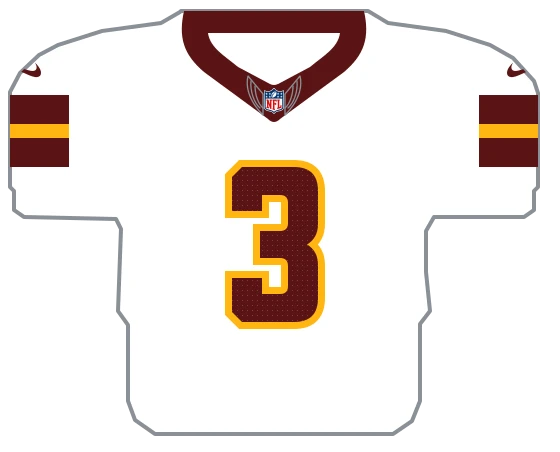
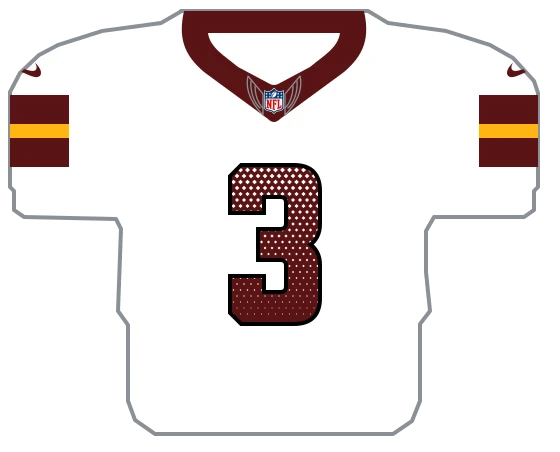
fix(uniforms): stipple the Commanders away numeral and outline it in black (DEP-710)

Changed region(s): [[0.3946, 0.3407, 0.6071, 0.7434]]

diff --git a/web/lib/uniforms/teams/commanders/marks/numbers.ts b/web/lib/uniforms/teams/commanders/marks/numbers.ts
@@ -1,3 +1,35 @@
+import type { PatternDef } from '../../core/types';
+
 // A narrow numeral with a flat left side and two rounded lobes on the right.
 export const COMMANDERS_NUMBER_THREE =
   'M262,539 L314,539 Q338,539 338,563 L338,596 Q338,610 327,616.5 Q338,623 338,637 L338,670 Q338,694 314,694 L262,694 L252,684 L252,650 L282,650 L282,666 L300,666 Q308,666 308,658 L308,638 Q308,630 300,630 L280,630 L280,603 L300,603 Q308,603 308,595 L308,575 Q308,567 300,567 L282,567 L282,583 L252,583 L252,549 Z';
+
+// White diamonds on a staggered grid across the chest numeral, largest at the top and shrinking to
+// nothing near the bottom.
+function stipple(): string {
+  const dots: string[] = [];
+  for (let row = 0; row * 6 <= 162; row++) {
+    const y = 536 + row * 6;
+    const r = 2.5 - (row * 6 * 2.1) / 162;
+    if (r < 0.5) break;
+    for (let x = 236 + (row % 2) * 3.5; x <= 352; x += 7) {
+      const f = (v: number) => v.toFixed(1);
+      dots.push(
+        `M${f(x)},${f(y - r)} L${f(x + r)},${f(y)} L${f(x)},${f(y + r)} L${f(x - r)},${f(y)} Z`
+      );
+    }
+  }
+  return dots.join(' ');
+}
+
+// The away numeral's fill: burgundy under the fading white stipple.
+export const COMMANDERS_NUMBER_PATTERNS: Record<string, PatternDef> = {
+  'commanders-number-stipple': {
+    width: 588,
+    height: 820,
+    shapes: [
+      { d: 'M0,0 H588 V820 H0 Z', fill: 'burgundy' },
+      { d: stipple(), fill: 'white' },
+    ],
+  },
+};

diff --git a/web/lib/uniforms/teams/commanders/jerseys/white.ts b/web/lib/uniforms/teams/commanders/jerseys/white.ts
@@ -2,7 +2,7 @@ import type { CompleteJerseySpec } from '../../core/complete';
 import { COMMANDERS_NUMBER_THREE } from '../marks/numbers';
 import { COMMANDERS_SLEEVE_BAND_BURGUNDY } from '../marks/construction';
 
-// White body, a burgundy band around a gold line on each sleeve, burgundy numerals keylined gold. A burgundy V collar band over a white neck.
+// White body, a burgundy band around a gold line on each sleeve, burgundy numerals stippled white inside a black outline. A burgundy V collar band over a white neck.
 export const COMMANDERS_JERSEY_WHITE: CompleteJerseySpec = {
   body: 'white',
   collar: {
@@ -21,10 +21,10 @@ export const COMMANDERS_JERSEY_WHITE: CompleteJerseySpec = {
   cuff: 'none',
   sleeveNumber: 'none',
   number: {
-    fill: 'burgundy',
-    outline: 'gold',
-    outlineWeight: 'regular',
-    texture: 'mesh',
+    fill: 'pattern:commanders-number-stipple',
+    outline: 'black',
+    outlineWeight: 'thin',
+    texture: 'plain',
     glyphPath: COMMANDERS_NUMBER_THREE,
   },
   marks: [{ paint: 'over', mark: COMMANDERS_SLEEVE_BAND_BURGUNDY }],

diff --git a/web/lib/uniforms/teams/commanders/index.ts b/web/lib/uniforms/teams/commanders/index.ts
@@ -3,10 +3,12 @@ import { catalogKits } from '../core/catalog';
 import { expandTeamSpec } from '../core/team-spec';
 import { COMMANDERS_PALETTE, COMMANDERS_SPEC } from './parts';
 import { COMMANDERS_CATALOG } from './catalog';
+import { COMMANDERS_NUMBER_PATTERNS } from './marks/numbers';
 
 export const COMMANDERS_PARTS: TeamPartsDefinition = {
   teamId: 'commanders',
   palette: COMMANDERS_PALETTE,
+  patterns: COMMANDERS_NUMBER_PATTERNS,
   ...expandTeamSpec('commanders', COMMANDERS_SPEC),
   kits: catalogKits(COMMANDERS_CATALOG),
 };

diff --git a/web/lib/uniforms/teams/commanders/parts.ts b/web/lib/uniforms/teams/commanders/parts.ts
@@ -10,7 +10,13 @@ import { COMMANDERS_W_DECAL } from './marks/construction';
 import { COMMANDERS_JERSEY_BURGUNDY } from './jerseys/burgundy';
 import { COMMANDERS_JERSEY_WHITE } from './jerseys/white';
 
-export const COMMANDERS_PALETTE = { burgundy: '#5A1414', gold: '#FFB612', white: '#FFFFFF' };
+export const COMMANDERS_PALETTE = {
+  burgundy: '#5A1414',
+  gold: '#FFB612',
+  white: '#FFFFFF',
+  // The away numeral's outline.
+  black: '#000000',
+};
 
 export const COMMANDERS_SPEC: TeamSpec = {
   helmets: {
